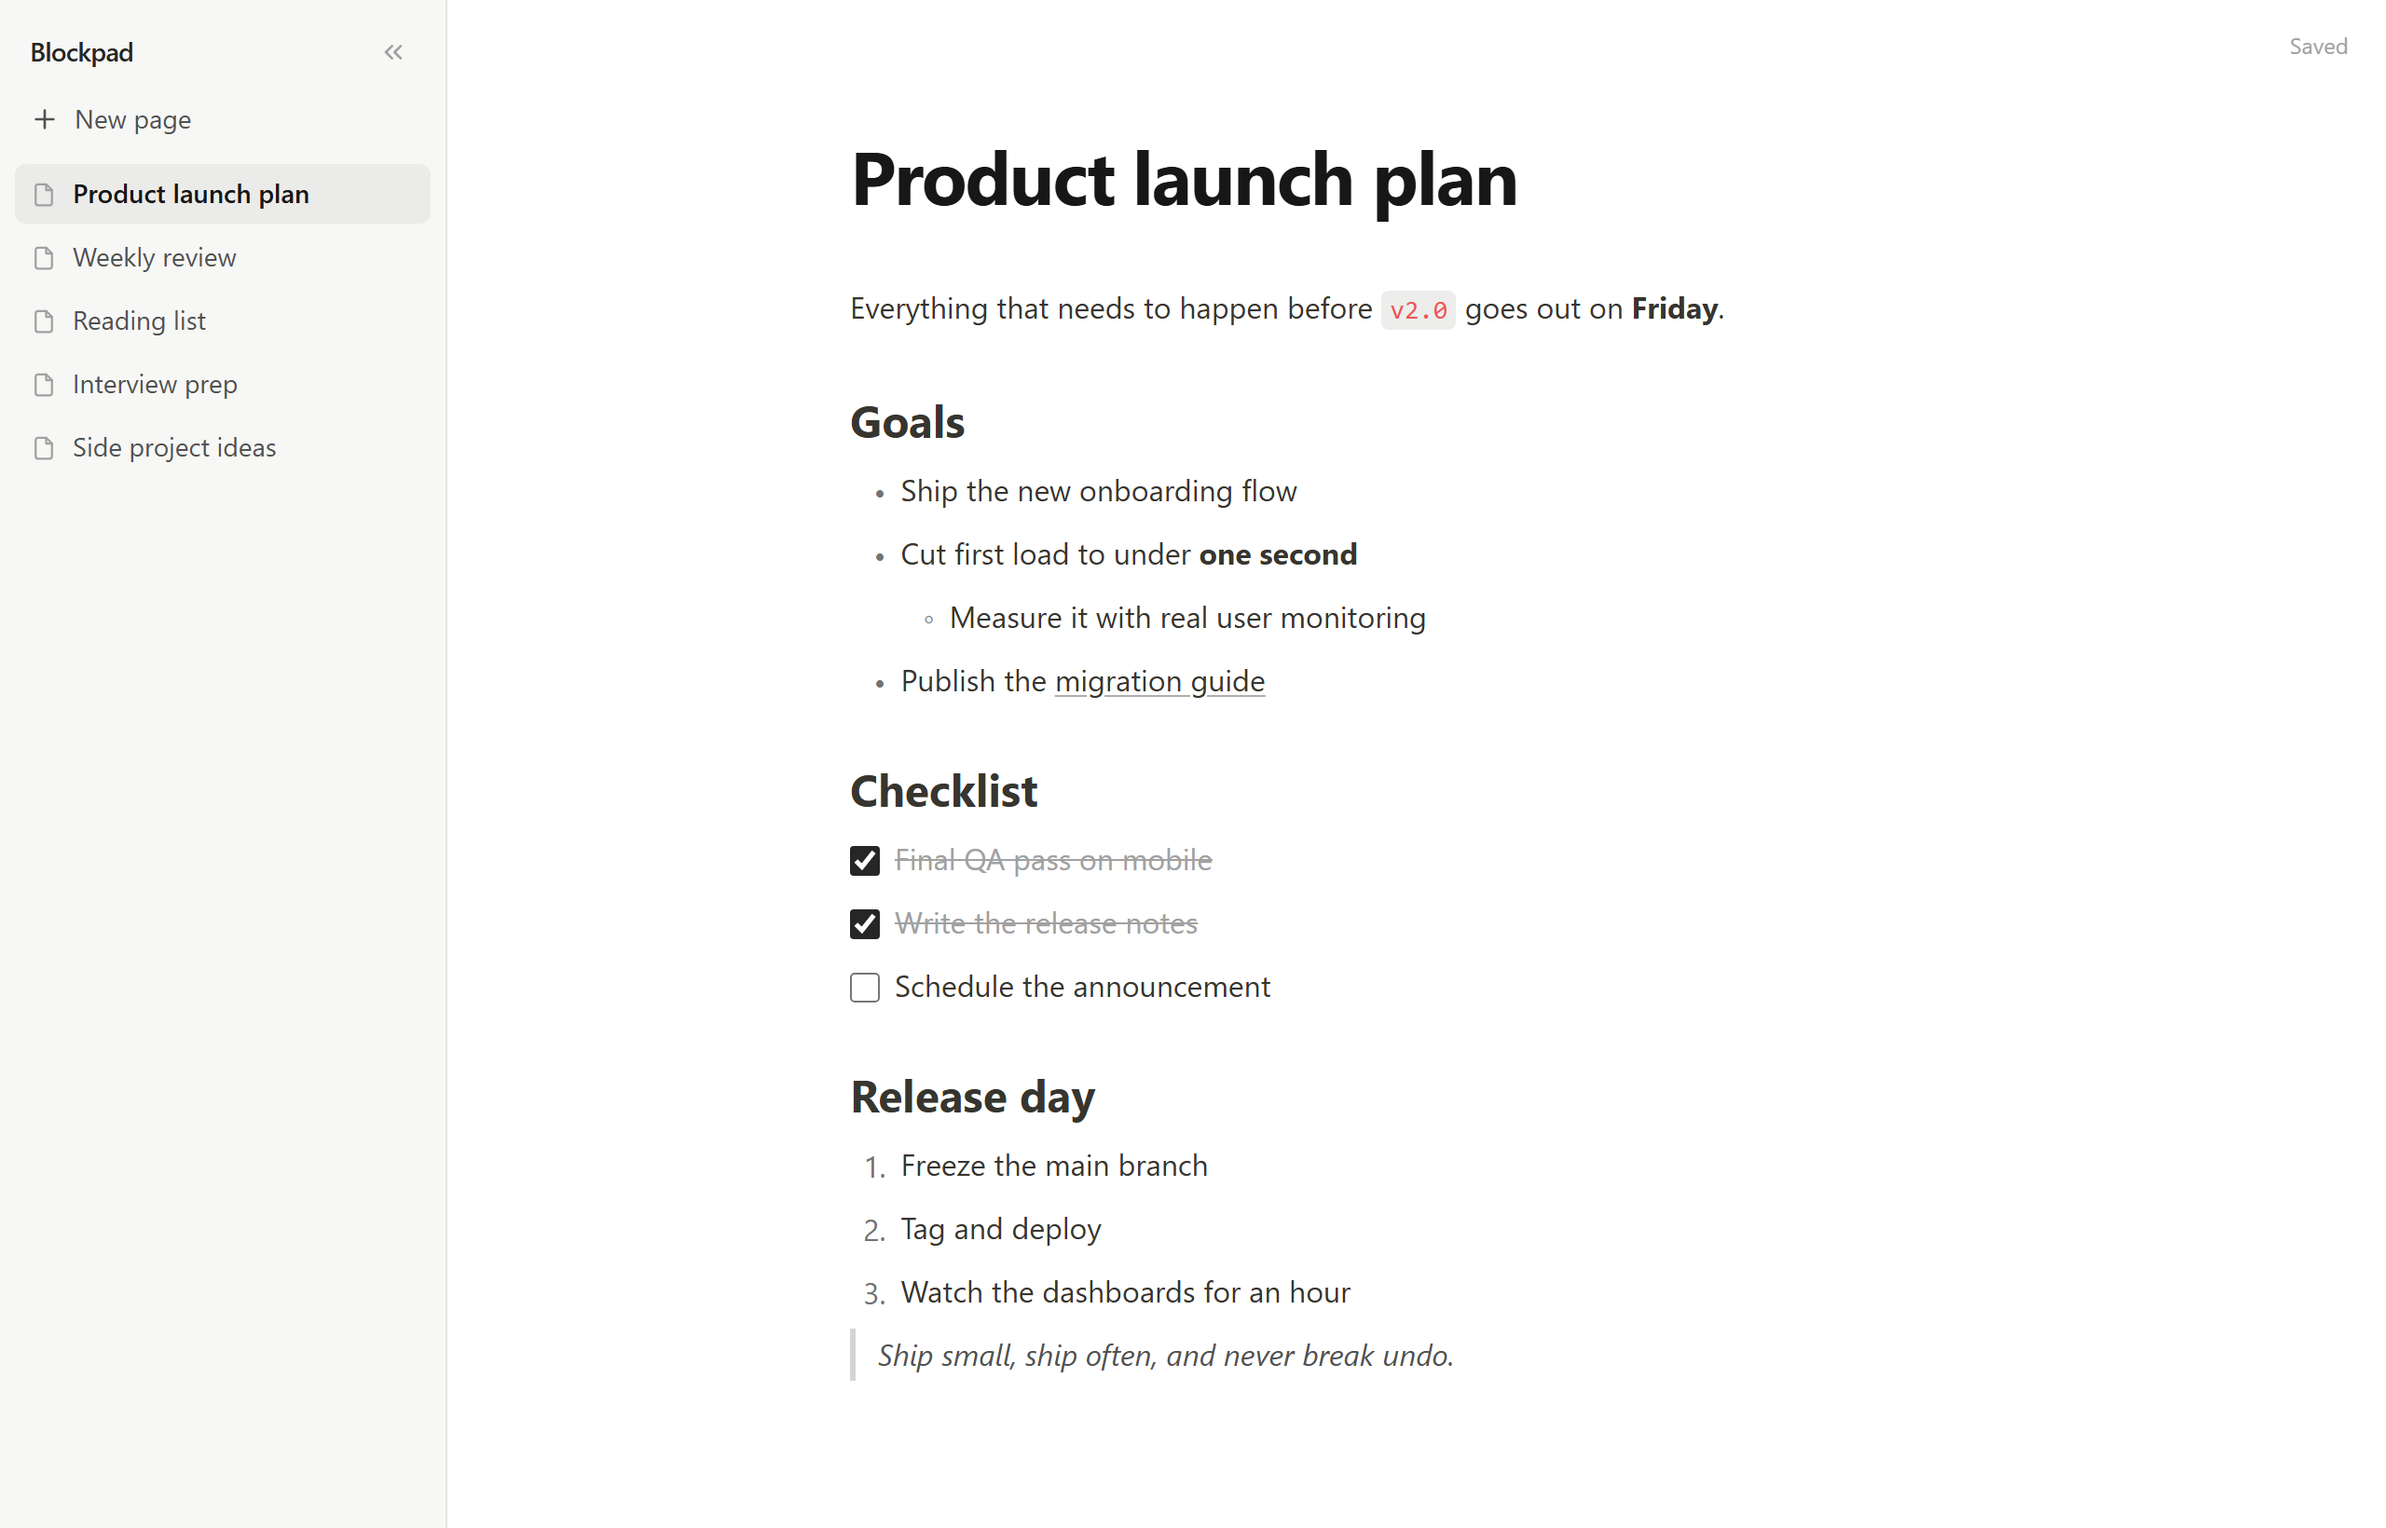
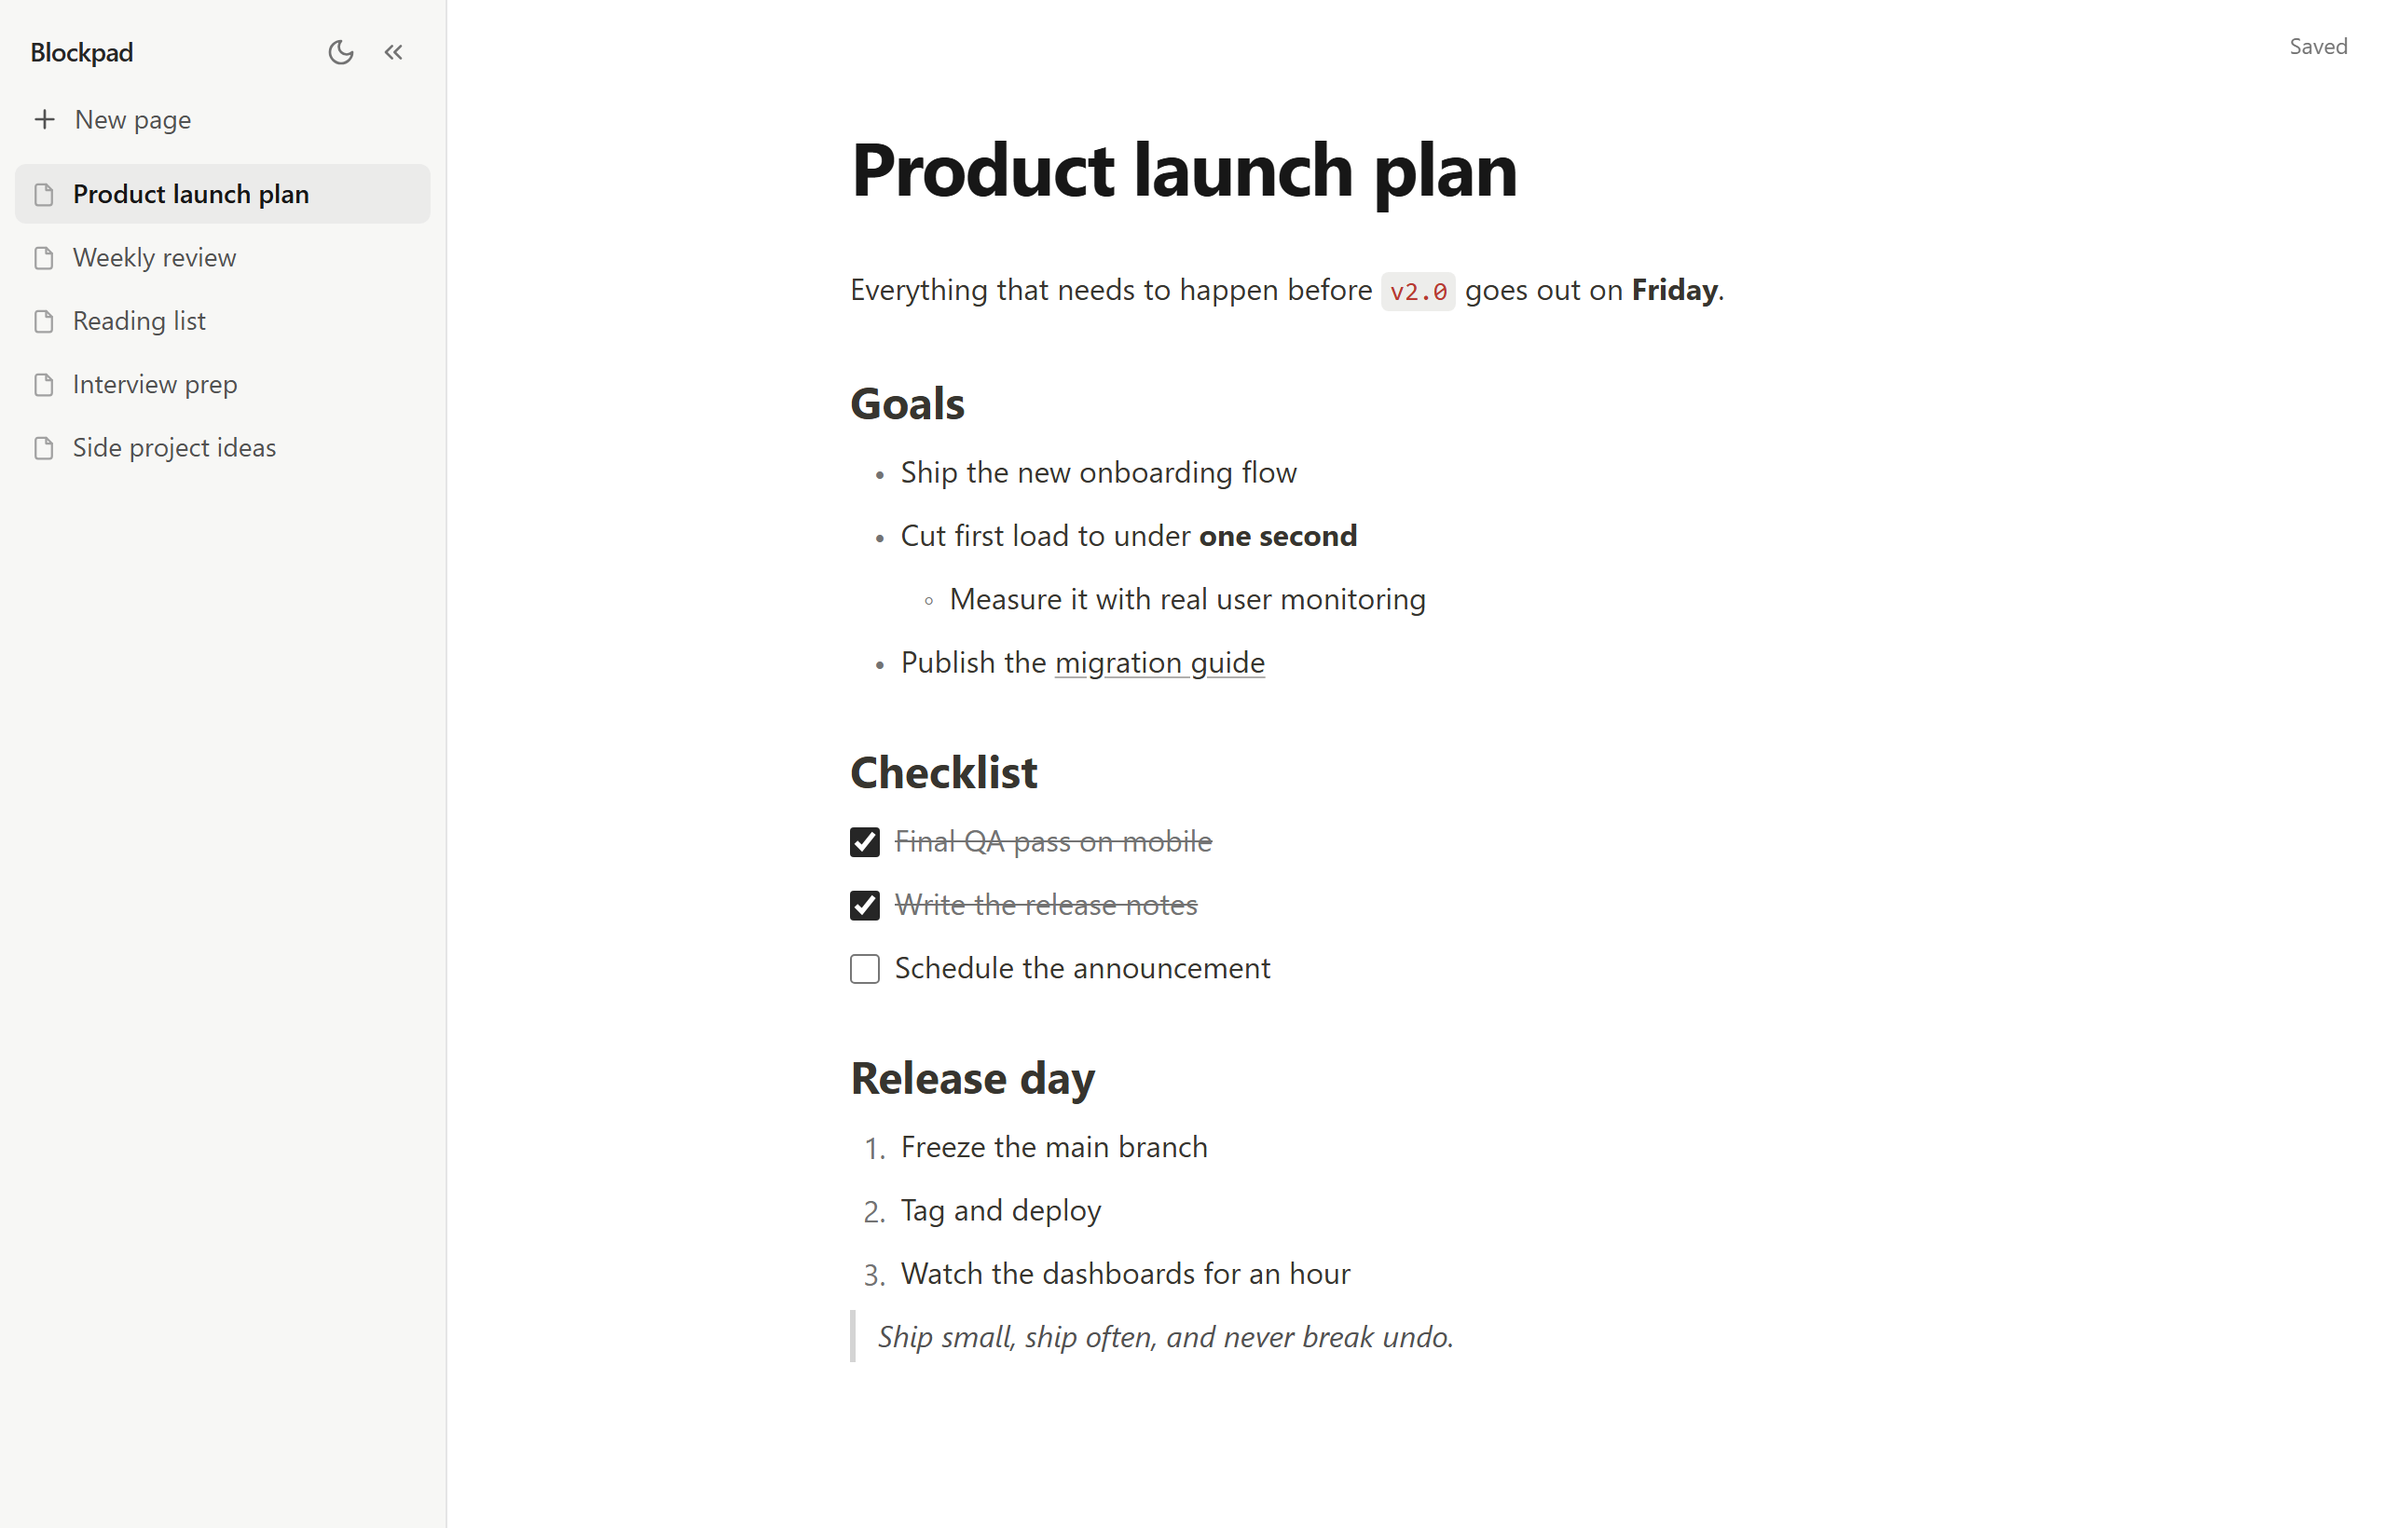
Document dark mode with a screenshot

diff --git a/README.md b/README.md
@@ -21,11 +21,14 @@ Built from scratch with React and TypeScript — no editor framework. Cursor tra
 - **Autosave** to the browser's local storage.
 - **Keyboard and screen-reader friendly** — Escape leaves the editor so Tab can move on, blocks move with Ctrl+Shift+Arrow, the slash menu announces the highlighted option, and text meets WCAG AA contrast.
 - **Works on phones** — the sidebar floats over the page, and controls that rely on hover stay visible on touch screens.
+- **Dark mode** — follows the system setting until you flip the switch in the sidebar, then remembers your choice. The theme is set before the first paint, so there is no white flash, and both themes meet WCAG AA contrast.
 
 <p>
   <img src="docs/slash-menu.png" alt="The slash menu listing the block types" width="49%">
   <img src="docs/toolbar.png" alt="The formatting toolbar above selected text" width="49%">
 </p>
+
+![The same page in dark mode](docs/editor-dark.png)
 
 ### Keyboard
 
